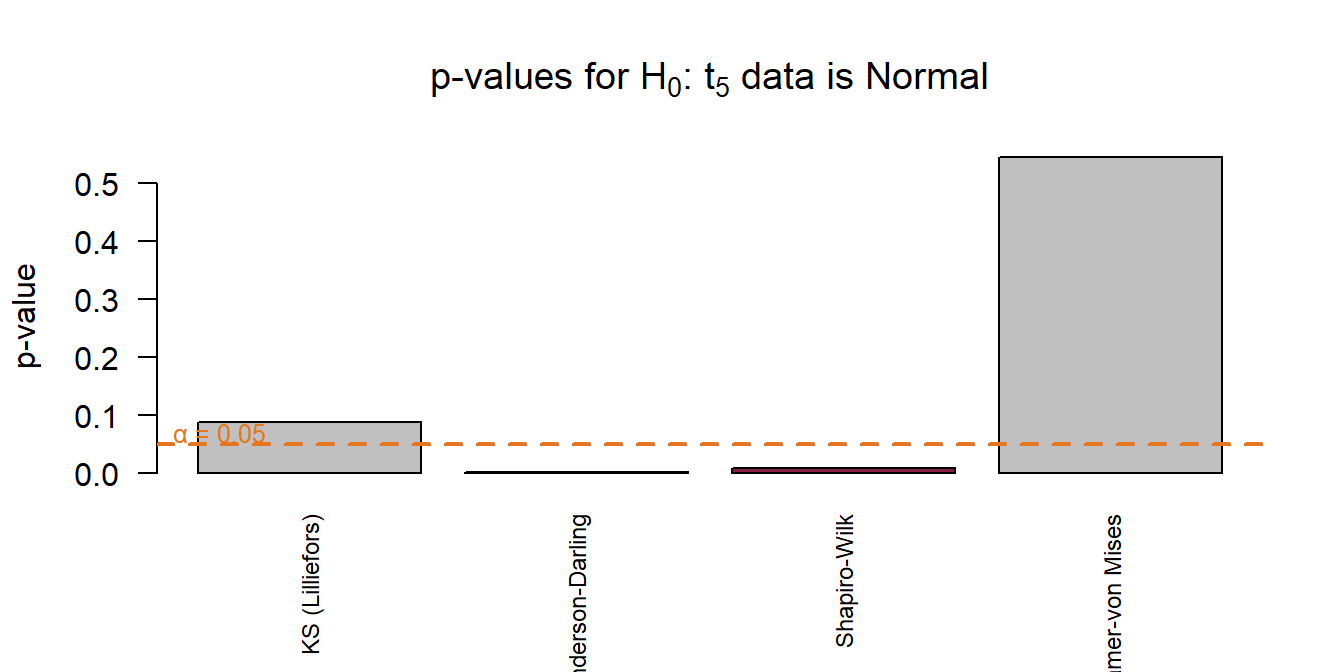
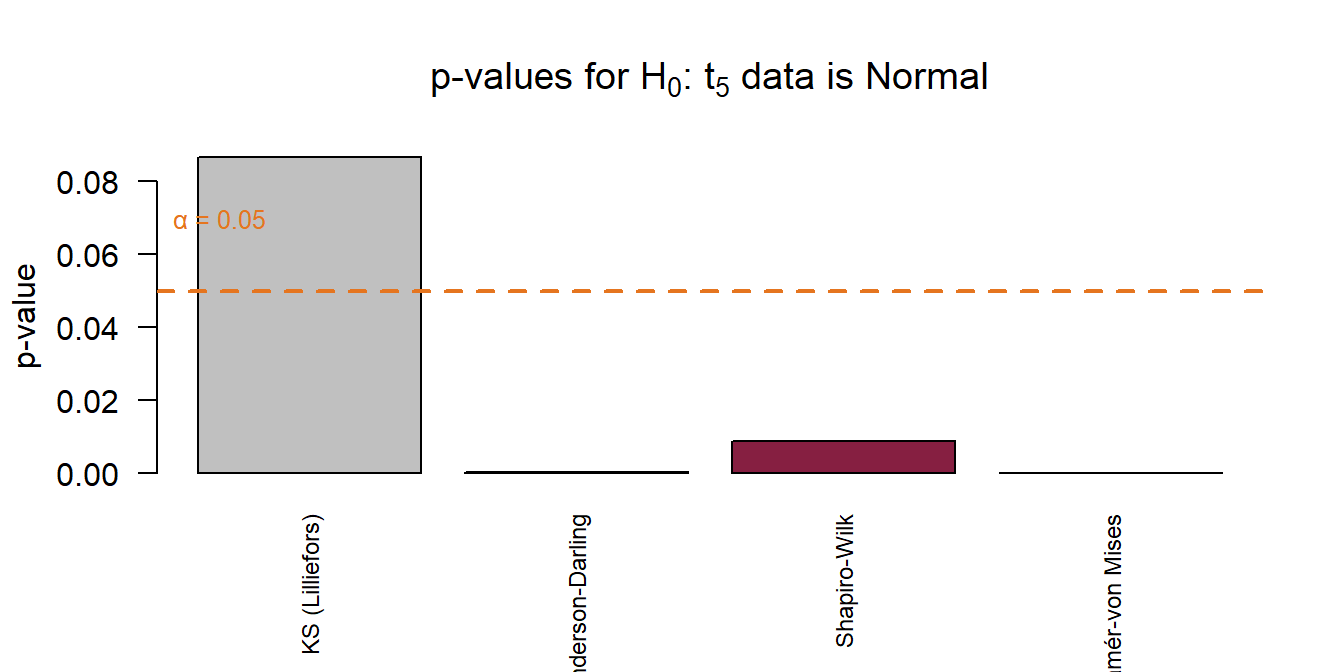
Added power calculation

diff --git a/iqs/ks_slides.html b/iqs/ks_slides.html
@@ -912,36 +912,109 @@ W = 0.94199, p-value = 0.2614</code></pre>
 </tbody>
 </table>
 </section>
-<section id="power-comparison-in-r" class="slide level2">
-<h2>Power Comparison in R</h2>
+<section id="p-value-comparison-in-r" class="slide level2">
+<h2>P-value Comparison in R</h2>
 <div class="cell" data-layout-align="center">
 <details class="code-fold">
 <summary>Code</summary>
 <div class="code-copy-outer-scaffold"><div class="sourceCode cell-code" id="cb23"><pre class="sourceCode numberSource r number-lines code-with-copy"><code class="sourceCode r"><span id="cb23-1"><a href=""></a><span class="fu">library</span>(nortest)</span>
 <span id="cb23-2"><a href=""></a><span class="fu">set.seed</span>(<span class="dv">42</span>)</span>
-<span id="cb23-3"><a href=""></a>x_t3 <span class="ot">&lt;-</span> <span class="fu">rt</span>(<span class="dv">50</span>, <span class="at">df =</span> <span class="dv">5</span>)   <span class="co"># heavy-tailed, not normal</span></span>
+<span id="cb23-3"><a href=""></a>x_t5 <span class="ot">&lt;-</span> <span class="fu">rt</span>(<span class="dv">50</span>, <span class="at">df =</span> <span class="dv">5</span>)</span>
 <span id="cb23-4"><a href=""></a></span>
 <span id="cb23-5"><a href=""></a>results <span class="ot">&lt;-</span> <span class="fu">data.frame</span>(</span>
-<span id="cb23-6"><a href=""></a>  <span class="at">Test =</span> <span class="fu">c</span>(<span class="st">"KS (Lilliefors)"</span>, <span class="st">"Anderson-Darling"</span>, <span class="st">"Shapiro-Wilk"</span>, <span class="st">"Cramer-von Mises"</span>),</span>
+<span id="cb23-6"><a href=""></a>  <span class="at">Test =</span> <span class="fu">c</span>(<span class="st">"KS (Lilliefors)"</span>, <span class="st">"Anderson-Darling"</span>, <span class="st">"Shapiro-Wilk"</span>, <span class="st">"Cramér-von Mises"</span>),</span>
 <span id="cb23-7"><a href=""></a>  <span class="at">p_value =</span> <span class="fu">c</span>(</span>
-<span id="cb23-8"><a href=""></a>    <span class="fu">lillie.test</span>(x_t3)<span class="sc">$</span>p.value,</span>
-<span id="cb23-9"><a href=""></a>    <span class="fu">ad.test</span>(x_t3)<span class="sc">$</span>p.value,</span>
-<span id="cb23-10"><a href=""></a>    <span class="fu">shapiro.test</span>(x_t3)<span class="sc">$</span>p.value,</span>
-<span id="cb23-11"><a href=""></a>    <span class="cf">if</span>(<span class="fu">requireNamespace</span>(<span class="st">"goftest"</span>,<span class="at">quietly=</span><span class="cn">TRUE</span>))</span>
-<span id="cb23-12"><a href=""></a>      goftest<span class="sc">::</span><span class="fu">cvm.test</span>(x_t3,<span class="st">"pnorm"</span>,<span class="at">mean=</span><span class="fu">mean</span>(x_t3),<span class="at">sd=</span><span class="fu">sd</span>(x_t3))<span class="sc">$</span>p.value <span class="cf">else</span> <span class="cn">NA</span></span>
-<span id="cb23-13"><a href=""></a>  )</span>
-<span id="cb23-14"><a href=""></a>)</span>
-<span id="cb23-15"><a href=""></a></span>
-<span id="cb23-16"><a href=""></a><span class="fu">barplot</span>(results<span class="sc">$</span>p_value, <span class="at">names.arg =</span> results<span class="sc">$</span>Test,</span>
-<span id="cb23-17"><a href=""></a>        <span class="at">col =</span> <span class="fu">ifelse</span>(results<span class="sc">$</span>p_value <span class="sc">&lt;</span> <span class="fl">0.05</span>, <span class="st">"#861F41"</span>, <span class="st">"#C0C0C0"</span>),</span>
-<span id="cb23-18"><a href=""></a>        <span class="at">main =</span> <span class="fu">expression</span>(<span class="st">"p-values for H"</span>[<span class="dv">0</span>]<span class="sc">*</span><span class="st">": t"</span>[<span class="dv">5</span>]<span class="sc">*</span><span class="st">" data is Normal"</span>),</span>
-<span id="cb23-19"><a href=""></a>        <span class="at">ylab =</span> <span class="st">"p-value"</span>, <span class="at">las =</span> <span class="dv">2</span>, <span class="at">cex.names =</span> <span class="fl">0.75</span>)</span>
-<span id="cb23-20"><a href=""></a><span class="fu">abline</span>(<span class="at">h =</span> <span class="fl">0.05</span>, <span class="at">col =</span> <span class="st">"#E5751F"</span>, <span class="at">lwd =</span> <span class="dv">2</span>, <span class="at">lty =</span> <span class="dv">2</span>)</span>
-<span id="cb23-21"><a href=""></a><span class="fu">text</span>(<span class="fl">0.3</span>, <span class="fl">0.07</span>, <span class="st">"α = 0.05"</span>, <span class="at">col =</span> <span class="st">"#E5751F"</span>, <span class="at">cex =</span> <span class="fl">0.8</span>)</span></code></pre></div><button title="Copy to Clipboard" class="code-copy-button"><i class="bi"></i></button></div>
+<span id="cb23-8"><a href=""></a>    <span class="fu">lillie.test</span>(x_t5)<span class="sc">$</span>p.value,</span>
+<span id="cb23-9"><a href=""></a>    <span class="fu">ad.test</span>(x_t5)<span class="sc">$</span>p.value,</span>
+<span id="cb23-10"><a href=""></a>    <span class="fu">shapiro.test</span>(x_t5)<span class="sc">$</span>p.value,</span>
+<span id="cb23-11"><a href=""></a>    <span class="fu">cvm.test</span>(x_t5)<span class="sc">$</span>p.value        <span class="co"># corrected version from nortest</span></span>
+<span id="cb23-12"><a href=""></a>  )</span>
+<span id="cb23-13"><a href=""></a>)</span>
+<span id="cb23-14"><a href=""></a></span>
+<span id="cb23-15"><a href=""></a><span class="fu">barplot</span>(results<span class="sc">$</span>p_value, <span class="at">names.arg =</span> results<span class="sc">$</span>Test,</span>
+<span id="cb23-16"><a href=""></a>        <span class="at">col =</span> <span class="fu">ifelse</span>(results<span class="sc">$</span>p_value <span class="sc">&lt;</span> <span class="fl">0.05</span>, <span class="st">"#861F41"</span>, <span class="st">"#C0C0C0"</span>),</span>
+<span id="cb23-17"><a href=""></a>        <span class="at">main =</span> <span class="fu">expression</span>(<span class="st">"p-values for H"</span>[<span class="dv">0</span>]<span class="sc">*</span><span class="st">": t"</span>[<span class="dv">5</span>]<span class="sc">*</span><span class="st">" data is Normal"</span>),</span>
+<span id="cb23-18"><a href=""></a>        <span class="at">ylab =</span> <span class="st">"p-value"</span>, <span class="at">las =</span> <span class="dv">2</span>, <span class="at">cex.names =</span> <span class="fl">0.75</span>)</span>
+<span id="cb23-19"><a href=""></a><span class="fu">abline</span>(<span class="at">h =</span> <span class="fl">0.05</span>, <span class="at">col =</span> <span class="st">"#E5751F"</span>, <span class="at">lwd =</span> <span class="dv">2</span>, <span class="at">lty =</span> <span class="dv">2</span>)</span>
+<span id="cb23-20"><a href=""></a><span class="fu">text</span>(<span class="fl">0.3</span>, <span class="fl">0.07</span>, <span class="st">"α = 0.05"</span>, <span class="at">col =</span> <span class="st">"#E5751F"</span>, <span class="at">cex =</span> <span class="fl">0.8</span>)</span></code></pre></div><button title="Copy to Clipboard" class="code-copy-button"><i class="bi"></i></button></div>
 </details>
 
 </div>
-<img data-src="ks_slides_files/figure-revealjs/power-compare-1.png" class="quarto-figure quarto-figure-center r-stretch" width="672"></section></section>
+<img data-src="ks_slides_files/figure-revealjs/power-compare-1.png" class="quarto-figure quarto-figure-center r-stretch" width="672"></section>
+<section id="power-comparison" class="slide level2">
+<h2>Power comparison</h2>
+<div class="cell" data-layout-align="center">
+<div class="code-copy-outer-scaffold"><div class="sourceCode cell-code" id="cb24"><pre class="sourceCode numberSource r number-lines code-with-copy"><code class="sourceCode r"><span id="cb24-1"><a href=""></a><span class="fu">library</span>(nortest)</span>
+<span id="cb24-2"><a href=""></a></span>
+<span id="cb24-3"><a href=""></a>run_tests <span class="ot">&lt;-</span> <span class="cf">function</span>(n, <span class="at">df =</span> <span class="dv">5</span>, <span class="at">B =</span> <span class="dv">1000</span>) {</span>
+<span id="cb24-4"><a href=""></a>  <span class="co"># Simulate rejection rates at alpha = 0.05</span></span>
+<span id="cb24-5"><a href=""></a>  rejections <span class="ot">&lt;-</span> <span class="fu">replicate</span>(B, {</span>
+<span id="cb24-6"><a href=""></a>    x <span class="ot">&lt;-</span> <span class="fu">rt</span>(n, <span class="at">df =</span> df)</span>
+<span id="cb24-7"><a href=""></a>    <span class="fu">c</span>(</span>
+<span id="cb24-8"><a href=""></a>      <span class="fu">lillie.test</span>(x)<span class="sc">$</span>p.value   <span class="sc">&lt;</span> <span class="fl">0.05</span>,</span>
+<span id="cb24-9"><a href=""></a>      <span class="fu">ad.test</span>(x)<span class="sc">$</span>p.value       <span class="sc">&lt;</span> <span class="fl">0.05</span>,</span>
+<span id="cb24-10"><a href=""></a>      <span class="fu">shapiro.test</span>(x)<span class="sc">$</span>p.value  <span class="sc">&lt;</span> <span class="fl">0.05</span>,</span>
+<span id="cb24-11"><a href=""></a>      <span class="fu">cvm.test</span>(x)<span class="sc">$</span>p.value      <span class="sc">&lt;</span> <span class="fl">0.05</span></span>
+<span id="cb24-12"><a href=""></a>    )</span>
+<span id="cb24-13"><a href=""></a>  })</span>
+<span id="cb24-14"><a href=""></a>  <span class="fu">rowMeans</span>(rejections)</span>
+<span id="cb24-15"><a href=""></a>}</span>
+<span id="cb24-16"><a href=""></a></span>
+<span id="cb24-17"><a href=""></a>ns <span class="ot">&lt;-</span> <span class="fu">c</span>(<span class="dv">20</span>, <span class="dv">50</span>, <span class="dv">100</span>, <span class="dv">200</span>, <span class="dv">500</span>)</span>
+<span id="cb24-18"><a href=""></a>power_mat <span class="ot">&lt;-</span> <span class="fu">sapply</span>(ns, run_tests)</span>
+<span id="cb24-19"><a href=""></a><span class="fu">rownames</span>(power_mat) <span class="ot">&lt;-</span> <span class="fu">c</span>(<span class="st">"Lilliefors"</span>, <span class="st">"Anderson-Darling"</span>, <span class="st">"Shapiro-Wilk"</span>, <span class="st">"CvM"</span>)</span>
+<span id="cb24-20"><a href=""></a><span class="fu">colnames</span>(power_mat) <span class="ot">&lt;-</span> <span class="fu">paste0</span>(<span class="st">"n="</span>, ns)</span>
+<span id="cb24-21"><a href=""></a><span class="fu">round</span>(power_mat, <span class="dv">3</span>) <span class="sc">%&gt;%</span>  <span class="fu">kable</span>()</span></code></pre></div><button title="Copy to Clipboard" class="code-copy-button"><i class="bi"></i></button></div>
+<div class="cell-output-display">
+<table class="caption-top">
+<thead>
+<tr class="header">
+<th style="text-align: left;"></th>
+<th style="text-align: right;">n=20</th>
+<th style="text-align: right;">n=50</th>
+<th style="text-align: right;">n=100</th>
+<th style="text-align: right;">n=200</th>
+<th style="text-align: right;">n=500</th>
+</tr>
+</thead>
+<tbody>
+<tr class="odd">
+<td style="text-align: left;">Lilliefors</td>
+<td style="text-align: right;">0.148</td>
+<td style="text-align: right;">0.210</td>
+<td style="text-align: right;">0.346</td>
+<td style="text-align: right;">0.528</td>
+<td style="text-align: right;">0.886</td>
+</tr>
+<tr class="even">
+<td style="text-align: left;">Anderson-Darling</td>
+<td style="text-align: right;">1.000</td>
+<td style="text-align: right;">1.000</td>
+<td style="text-align: right;">1.000</td>
+<td style="text-align: right;">1.000</td>
+<td style="text-align: right;">1.000</td>
+</tr>
+<tr class="odd">
+<td style="text-align: left;">Shapiro-Wilk</td>
+<td style="text-align: right;">0.188</td>
+<td style="text-align: right;">0.347</td>
+<td style="text-align: right;">0.572</td>
+<td style="text-align: right;">0.812</td>
+<td style="text-align: right;">0.993</td>
+</tr>
+<tr class="even">
+<td style="text-align: left;">CvM</td>
+<td style="text-align: right;">0.973</td>
+<td style="text-align: right;">1.000</td>
+<td style="text-align: right;">1.000</td>
+<td style="text-align: right;">1.000</td>
+<td style="text-align: right;">1.000</td>
+</tr>
+</tbody>
+</table>
+</div>
+</div>
+</section></section>
 <section>
 <section id="summary" class="title-slide slide level1 center" data-background-color="#861F41">
 <h1>Summary</h1>
